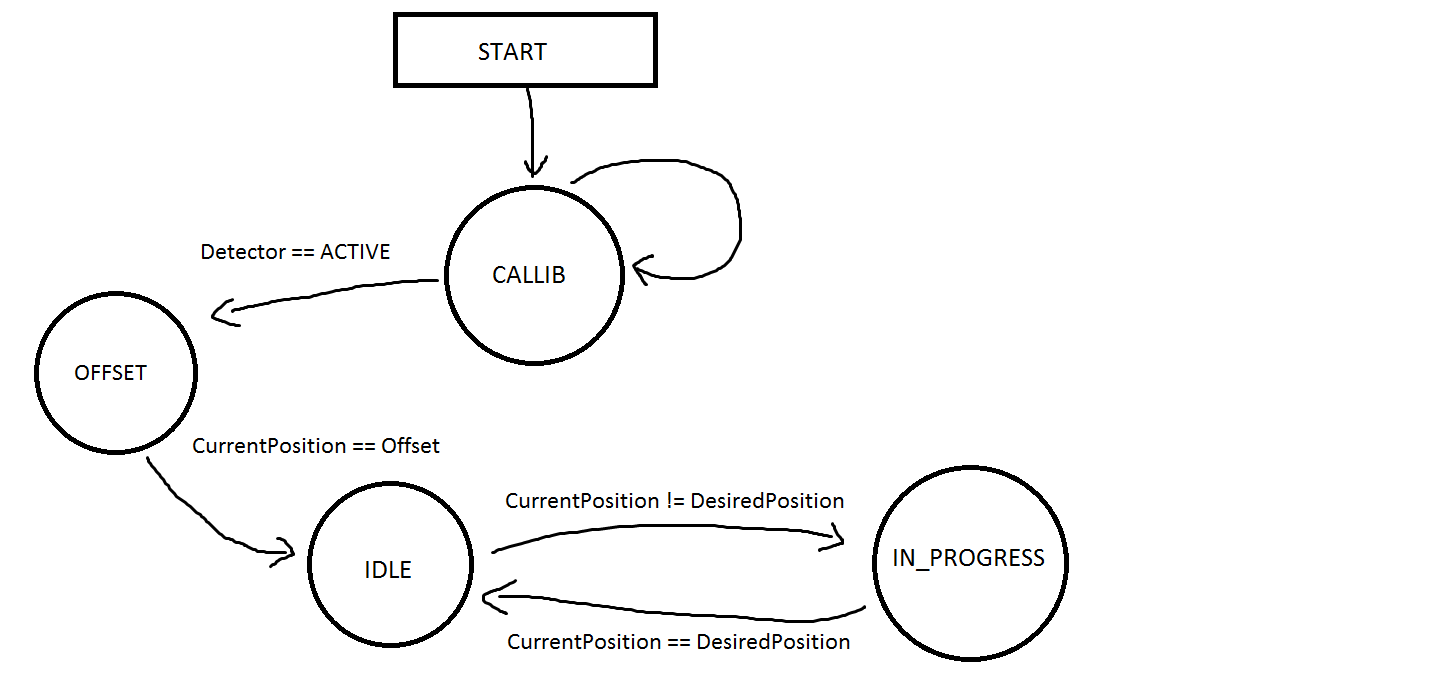
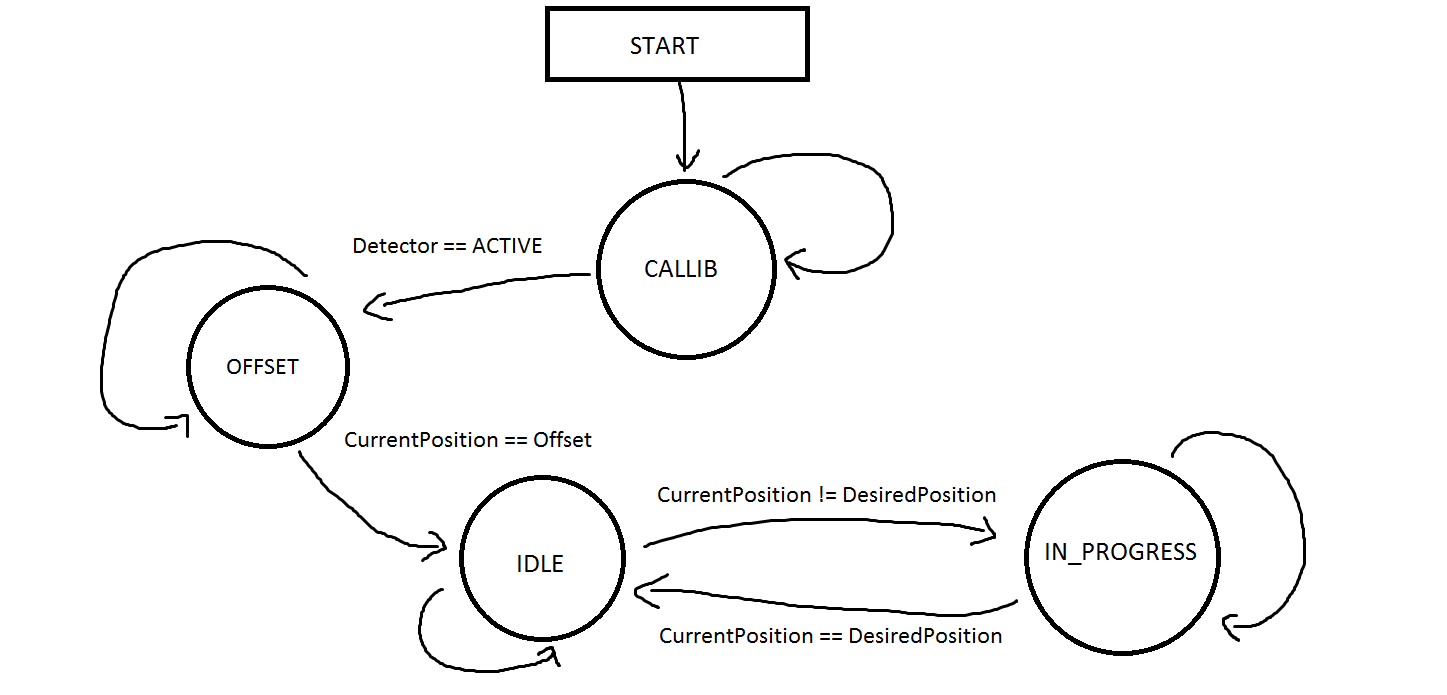
Changes to servo

diff --git a/Archive/Serwo/servo.c b/Archive/Serwo/servo.c
@@ -28,8 +28,9 @@ struct Servo {
 
 struct Servo sServo;
 
+
 void Automat() {
-	unsigned char ucOffset = 12;
+	
 	switch(sServo.eState) {
 		case CALLIB:
 			if(eReadDetector() == ACTIVE) {
@@ -41,7 +42,7 @@ void Automat() {
 			}
 			break;
 		case OFFSET:
-			if(sServo.uiCurrentPosition == ucOffset) {
+			if(sServo.uiCurrentPosition == 12) {
 				sServo.uiCurrentPosition = 0;
 				sServo.uiDesiredPostion = 0;
 				sServo.eState = IDLE;
@@ -75,6 +76,7 @@ void Automat() {
 
 void ServoInit(unsigned int uiServoFrequency) {
 	uiServoFrequency = (1000000/uiServoFrequency);
+	DetectorInit();
 	LedInit();
 	sServo.eState = CALLIB;
 	Timer0Interrupts_Init(uiServoFrequency, &Automat);
@@ -87,4 +89,6 @@ void ServoCallib(void) {
 
 void ServoGoTo(unsigned int uiPosition) {
 	sServo.uiDesiredPostion = uiPosition;
+	sServo.eState = IN_PROGRESS;
+	while(sServo.eState == IN_PROGRESS) {};
 }

diff --git a/Archive/Serwo/main.c b/Archive/Serwo/main.c
@@ -5,9 +5,9 @@
 int main (){
 	enum KeyboardState eKeyboardState;
 	KeyboardInit();
-	DetectorInit();
-	ServoInit(4);
-	
+	ServoInit(8);
+	ServoGoTo(24);
+	ServoGoTo(12);
 
 	while(1){
 		eKeyboardState = eKeyboardRead();